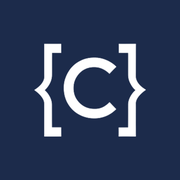
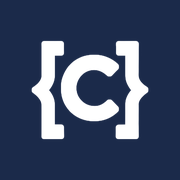
Swap the {C} mark for Ben's new artwork
Source is navy-outlined glyphs on a transparent background; rendered as
white glyphs on site navy for the favicon/touch icon and as a transparent
white mark for the footer (now 56px) so it stays flush on the navy.

Changed region(s): [[0.3333, 0.2222, 0.8333, 0.7778], [0.1667, 0.2222, 0.3611, 0.7778]]

diff --git a/styles.css b/styles.css
@@ -141,7 +141,7 @@ nav{position:sticky;top:0;background:var(--navy);border-bottom:1px solid rgba(25
 footer{background:var(--navy-deep);padding:72px 0;font-size:14.5px;color:rgba(255,255,255,.55);}
 .foot{display:flex;justify-content:space-between;gap:32px;flex-wrap:wrap;align-items:flex-start;}
 footer img{filter:brightness(0) invert(1);}
-.foot-mark{width:40px;height:40px;display:block;margin-bottom:14px;filter:none;}
+.foot-mark{width:56px;height:56px;display:block;margin-bottom:14px;filter:none;}
 footer a{color:rgba(255,255,255,.75);text-decoration:none;display:block;margin-bottom:8px;}
 footer a:hover{color:var(--amber);}
 .foot-tag{font-size:12.5px;color:rgba(255,255,255,.45);margin-top:8px;max-width:300px;}
